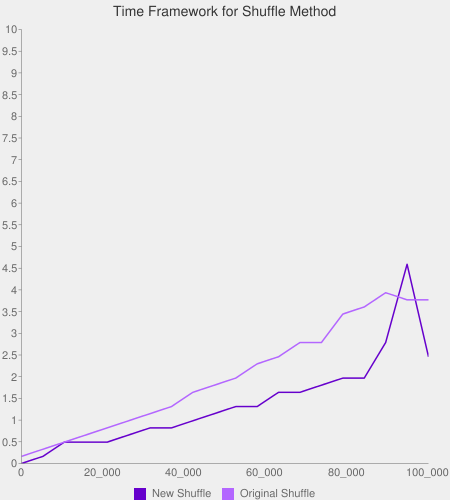
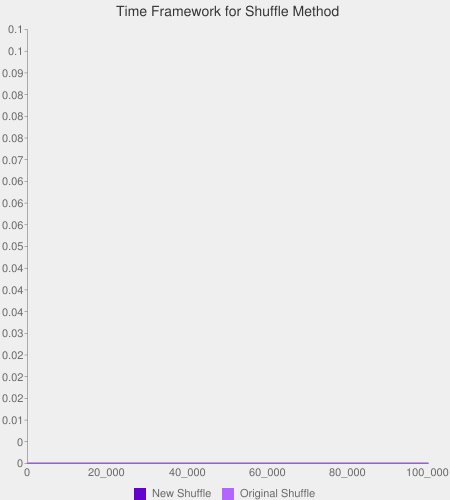
shuffle method with new time framework

diff --git a/lib/shuffle_method_time_frame.rb b/lib/shuffle_method_time_frame.rb
@@ -23,15 +23,20 @@ end
 class Shuffle < Array
 
   def shuffle_original
+    a = start*1000
+    b = ending*1000
     results = []
     m = 5000
-    while m <= 100_000
-      time = Benchmark.measure do
-        array = Array(1..m).shuffle
-      end
+    while m <= 100000
+      # time = Benchmark.measure do
+        a
+        Array(1..m).rotation(1000)
+        # array = Array(1..m).shuffle
+      # end
+        b
       m += 5_000
       # takes the real time  and changes it from seconds to miliseconds
-      results.push(time.real * 1_000)
+      results.push((b - a))
     end
     results
   end
@@ -40,12 +45,14 @@ class Shuffle < Array
     results = []
     m = 5000
     while m <= 100_000
-      time = Benchmark.measure do
+      # time = Benchmark.measure do
+      start
        Array(1..m).rotation(1000)
-      end
+      ending
+      # end
       m += 5_000
       # takes the real time  and changes it from seconds to miliseconds
-      results.push(time.real * 1_000)
+      results.push((ending - start)*1000)
     end
     results
   end
@@ -63,19 +70,33 @@ class Shuffle < Array
       :stacked => false,
       :legend_position => 'bottom',
       :axis_with_labels => [['x'], ['y']],
-      :max_value => 10,
+      :max_value => 0.1,
       :min_value => 0,
       :axis_labels => [["0|20_000|40_000|60_000|80_000|100_000"]],
       )
 
     generate_graph.file
   end
+
+  def start
+    Process.clock_gettime(Process::CLOCK_MONOTONIC)
+    end
+   def ending
+   Process.clock_gettime(Process::CLOCK_MONOTONIC)
+   end
+  def timer 
+    a = start
+    b = ending
+      return (b - a)*1000   
+  end
+
 end
 
+
+
 a = Shuffle.new
-a.graph
+# a.graph
 
-p a.new_shuffle_time
+# p a.new_shuffle_time
 p a.shuffle_original
-
 
